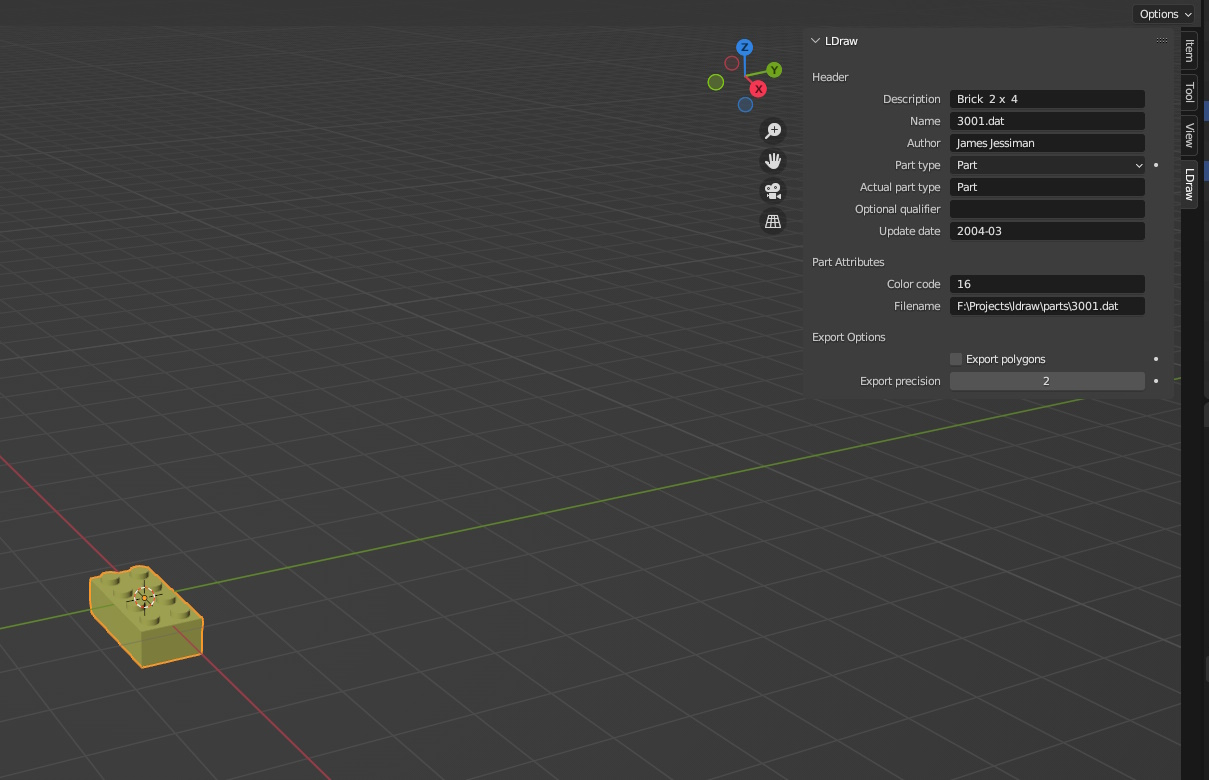
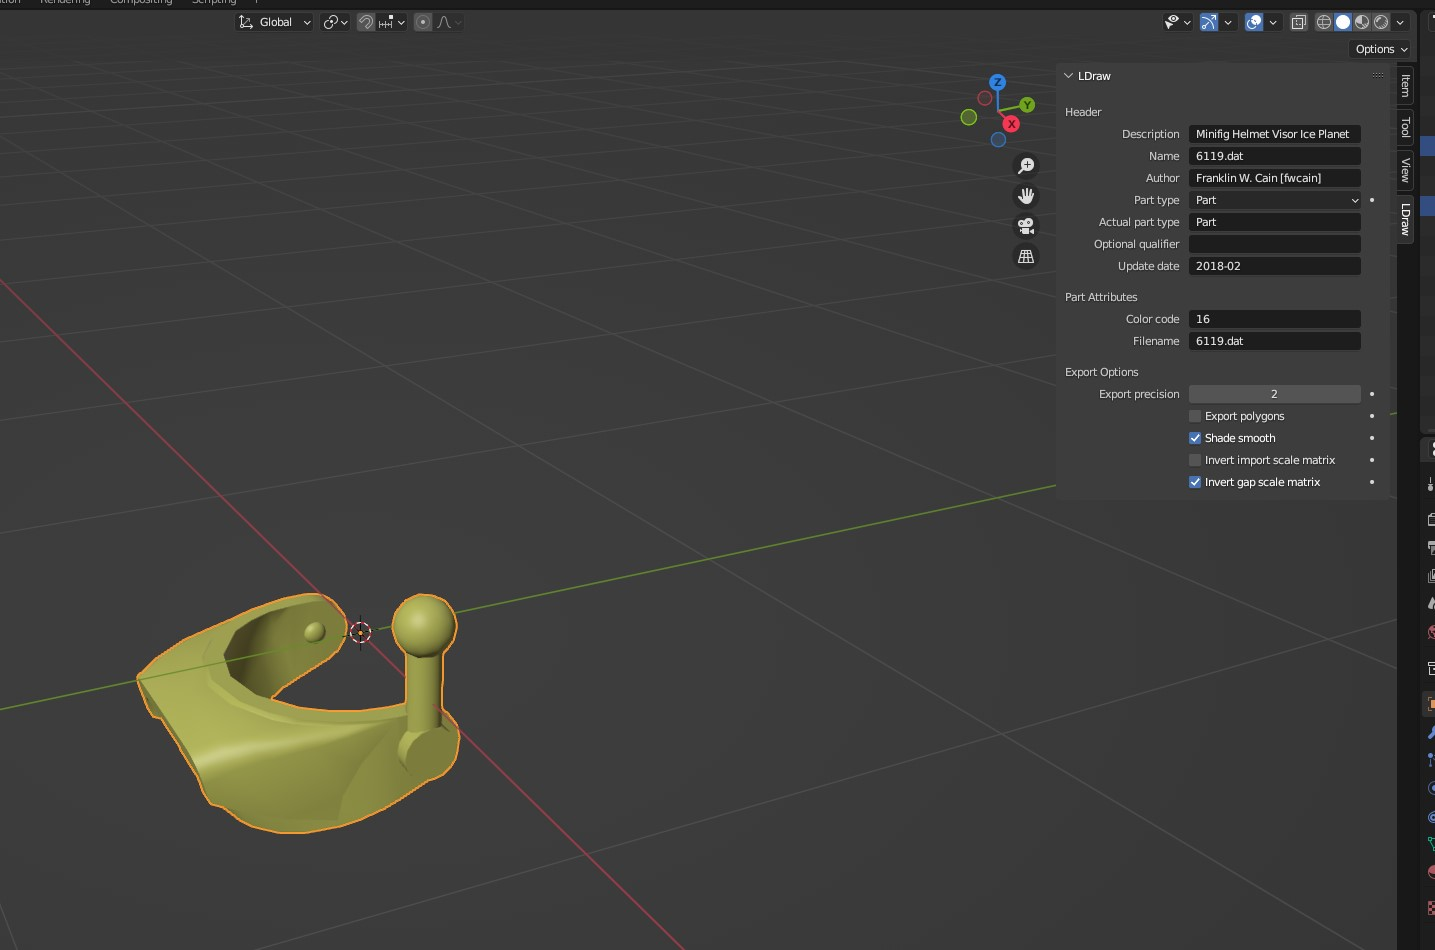
Update Readme.md to explain export Shade smooth on export

diff --git a/Readme.md b/Readme.md
@@ -206,11 +206,20 @@ Be sure to change this before you export unless you intend for the exported part
 
 #### Export Options
 
-**Export polygons**: Specifies whether the object will be exported as polygons or a **line type 1**.  
 **Export precision**: This is used to round the decimal places that objects and polygon vertices are rounded to. 2 is more than sufficient for
 most applications.  
+**Export polygons**: Specifies whether the object will be exported as polygons or a **line type 1**.  
 
-These are important for exporting properly sized parts. These will be checked by default on imported objects.  
+**Shade Smooth**: When exporting polygons, export all edges that are not marked sharp as **line type 5**.  
+This is needed because LDView and several other LDraw viewers use **line type 5** to calculate smoothing. Smoothing works 
+correctly in LDView for exported parts without any additional work, but these exported condtional lines don't render entirely 
+correctly in LDView, so you may wish to use a dedicated utility like [Edger2](https://www.philohome.com/isecalc/edger2.htm) to 
+generate conditional lines.
+
+![ldview_smooth.jpg](examples/import/ldview_smooth.jpg)  
+![ldview_flat.jpg](examples/import/ldview_flat.jpg)
+
+***These are important for exporting properly sized parts. These will be checked by default on imported objects.***  
 **Invert import scale matrix**: Negate **import_scale_matrix** on imported objects during export.   
 **Invert gap scale matrix**: Negate **gap_scale_matrix** on imported objects during export.  
 
